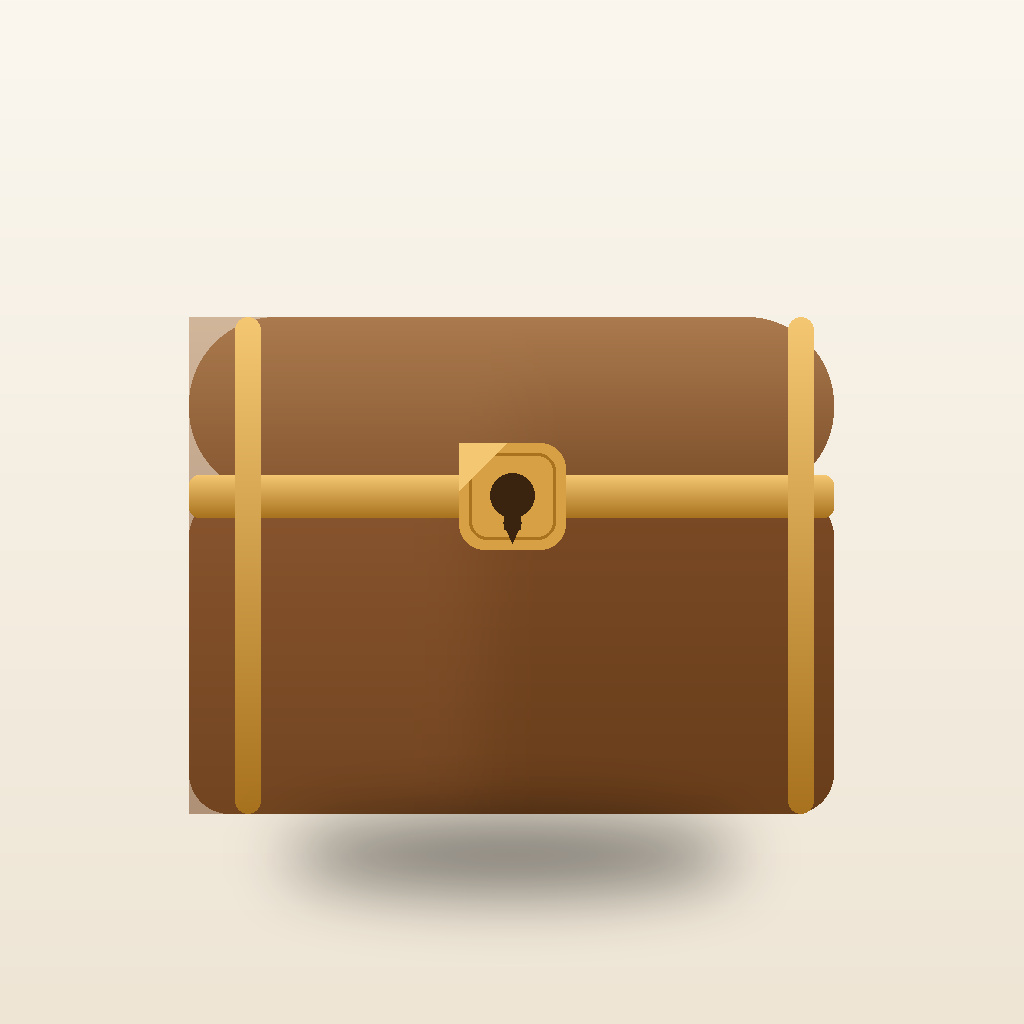
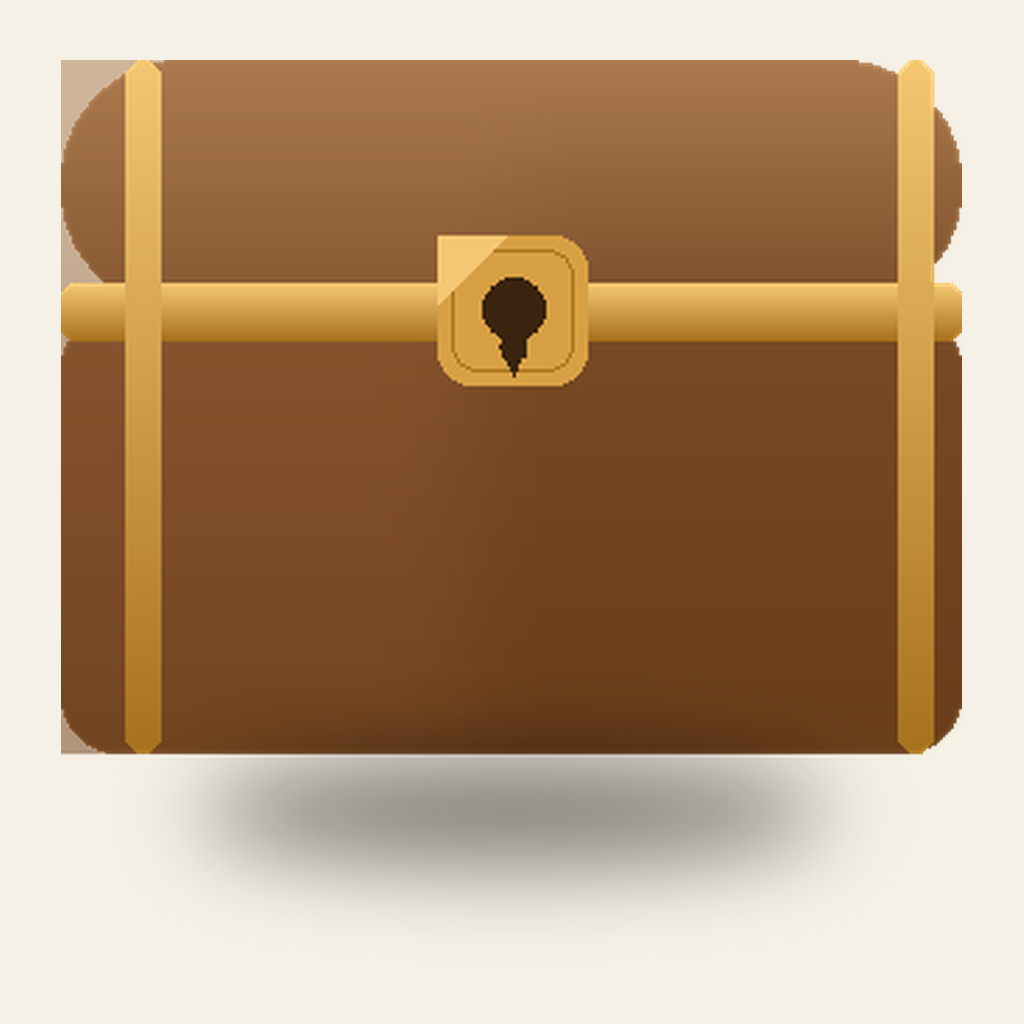
up: 图标一律统一为产品原生宝箱logo.png(奶油底+原样宝箱), 新增og/twitter分享图, 升级SW版本2026.09.10.04彻底清理旧缓存; 桌面/主屏图标全面刷新

diff --git a/index.html b/index.html
@@ -1,5 +1,5 @@
 <!DOCTYPE html>
-<html lang="zh-CN" data-app="centrove" data-author="尹平平" data-ver="2026.09.10.03"><head><meta http-equiv="Content-Type" content="text/html; charset=UTF-8">
+<html lang="zh-CN" data-app="centrove" data-author="尹平平" data-ver="2026.09.10.04"><head><meta http-equiv="Content-Type" content="text/html; charset=UTF-8">
 <!-- 栖匣 —— 原创作品，作者：尹平平。整体架构、界面、内容均受《中华人民共和国著作权法》保护；未获书面授权，禁止整站复制、二次开发后冒名发布或用于牟利。 -->
 <svg width="0" height="0" style="position:absolute" aria-hidden="true"><defs><linearGradient id="plBg" x1="0%" y1="0%" x2="100%" y2="100%"><stop offset="0%" stop-color="#4A3427"/><stop offset="100%" stop-color="#33291F"/></linearGradient><radialGradient id="plSun" cx="45%" cy="35%" r="80%"><stop offset="0%" stop-color="#FFF7E2"/><stop offset="60%" stop-color="#F6CF72"/><stop offset="100%" stop-color="#EFAD46"/></radialGradient></defs></svg>
 
@@ -13,13 +13,27 @@
   <meta name="apple-mobile-web-app-capable" content="yes">
   <meta name="apple-mobile-web-app-status-bar-style" content="black-translucent">
   <meta name="apple-mobile-web-app-title" content="栖匣">
-  <link rel="manifest" href="pwa/manifest.json?v=2026090904">
+  <!-- 分享卡片（微信/QQ/Telegram 等抓取）：确保转发出去的卡片一律显示产品本身的原生「宝箱」图标 -->
+  <meta property="og:type" content="website">
+  <meta property="og:site_name" content="栖匣">
+  <meta property="og:title" content="栖匣 · 大学生成长中枢">
+  <meta property="og:description" content="心有所栖，匣纳成长——大学生的一站式成长园地。学业备考、目标、时间、账本、健康、情绪与灵感，全部安放在同一处。数据只存本机，不上传。">
+  <meta property="og:image" content="https://lumenplexus.github.io/centrove/pwa/share-512.png">
+  <meta property="og:image:width" content="512">
+  <meta property="og:image:height" content="512">
+  <meta property="og:image:alt" content="栖匣 · 暖棕宝箱图标">
+  <meta name="twitter:card" content="summary">
+  <meta name="twitter:title" content="栖匣 · 大学生成长中枢">
+  <meta name="twitter:image" content="https://lumenplexus.github.io/centrove/pwa/share-512.png">
+  <link rel="manifest" href="pwa/manifest.json?v=2026091004">
   <link rel="icon" href="favicon.ico" sizes="any">
+  <link rel="icon" type="image/png" sizes="192x192" href="pwa/icon-20260910-192.png">
   <link rel="icon" type="image/png" sizes="96x96" href="favicon-96.png">
   <link rel="icon" type="image/png" sizes="32x32" href="favicon-32.png">
   <link rel="icon" type="image/png" sizes="16x16" href="favicon-16.png">
-  <link rel="apple-touch-icon" href="pwa/apple-touch-icon-0905.png">
+  <!-- 主屏图标：统一为产品原生宝箱 logo.png 直接生成（奶油底 + 原样宝箱） -->
   <link rel="apple-touch-icon" sizes="180x180" href="pwa/apple-touch-icon-0905.png">
+  <link rel="apple-touch-icon" href="pwa/apple-touch-icon-0905.png">
   <!-- iOS 启动图（从主屏幕图标打开时显示品牌启动屏，避免白屏） -->
   <link rel="apple-touch-startup-image" media="screen and (device-width:430px) and (device-height:932px)" href="pwa/splash-6.1.png">
   <link rel="apple-touch-startup-image" media="screen and (device-width:390px) and (device-height:844px)" href="pwa/splash-6.1.png">

diff --git a/sw.js b/sw.js
@@ -6,7 +6,7 @@
    - HTML 导航采用网络优先（保证每次拿到最新页面），静态资源采用 stale-while-revalidate
      （离线秒开、在线自动后台刷新）。
    安全说明：本 SW 只缓存本站静态资源，绝不读写、上传任何 localStorage 用户数据。 */
-var VERSION = '2026.09.10.03';
+var VERSION = '2026.09.10.04';
 var PRE = 'centrove-pre-' + VERSION;
 var RUN = 'centrove-run-' + VERSION;
 
@@ -25,12 +25,18 @@ var PRECACHE_URLS = [
   './favicon.svg',
   './pwa/apple-touch-icon-0905.png',
   './pwa/apple-touch-icon-1024.png',
-  './pwa/icon-20260909-192.png',
-  './pwa/icon-20260909-512.png',
   './pwa/icon-180.png',
+  './pwa/icon-192.png',
+  './pwa/icon-512.png',
+  './pwa/icon-1024.png',
+  './pwa/icon-20260910-192.png',
+  './pwa/icon-20260910-512.png',
   './pwa/logo.png',
-  './pwa/maskable-20260909-192.png',
-  './pwa/maskable-20260909-512.png'
+  './pwa/maskable-192.png',
+  './pwa/maskable-512.png',
+  './pwa/maskable-20260910-192.png',
+  './pwa/maskable-20260910-512.png',
+  './pwa/share-512.png'
 ];
 
 self.addEventListener('install', function (e) {
